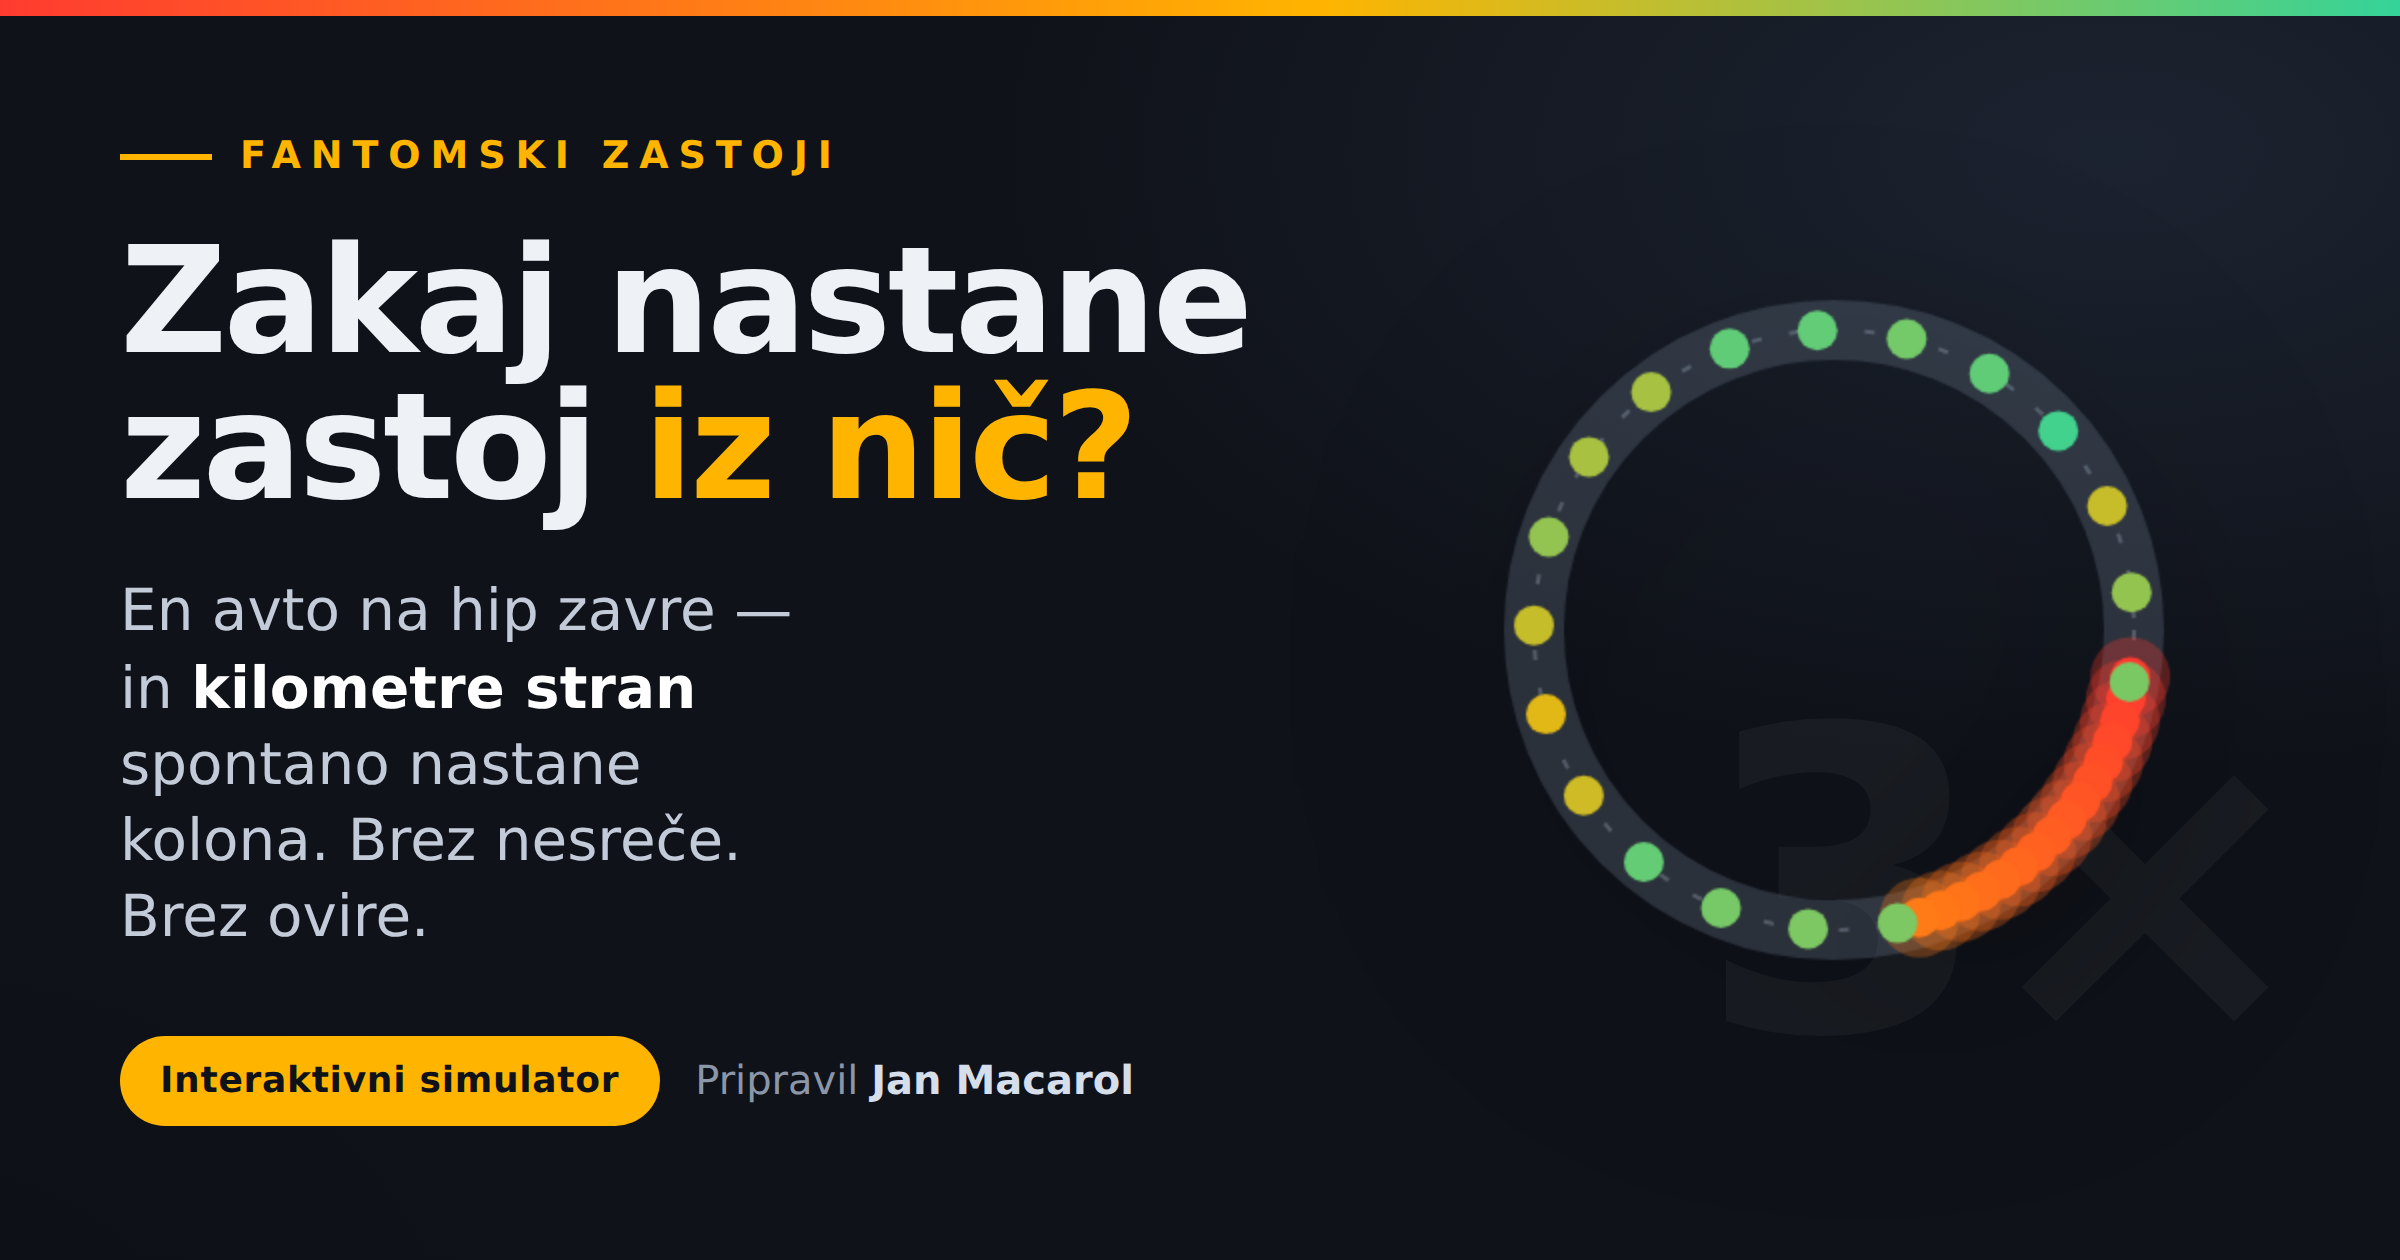
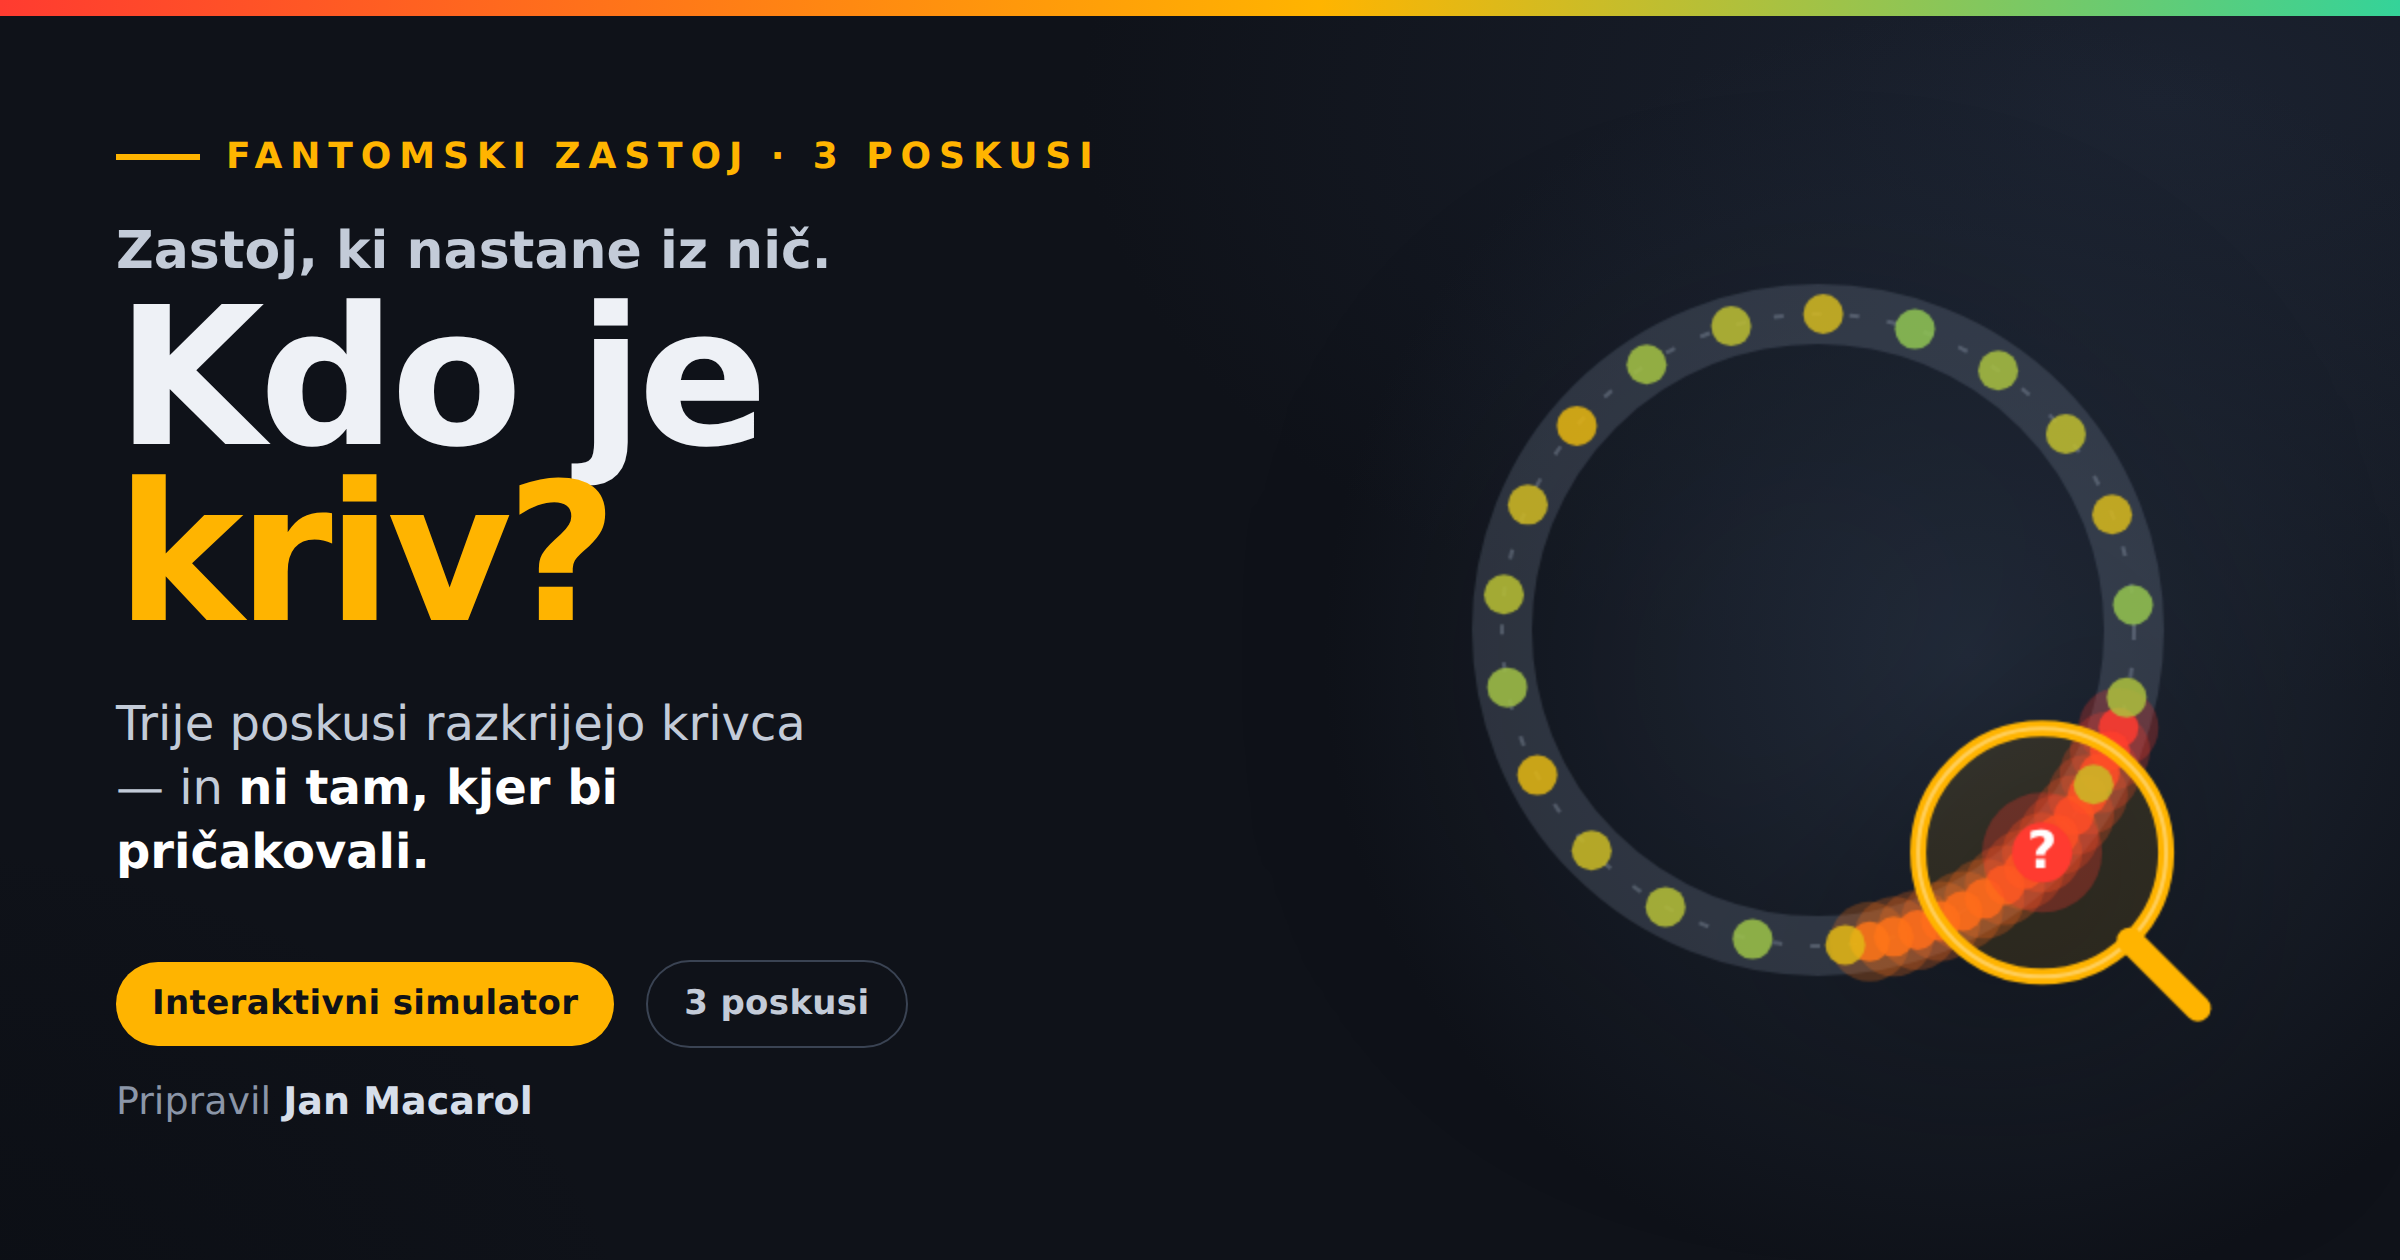
New clickbait share image and a who-is-to-blame verdict
- New og-image.png in a whodunit style: "Kdo je kriv?" with a magnifying
  glass over one car in the jam, 3-experiments framing, Jan Macarol credit
- OG/Twitter meta and share text reworked around "Who is to blame for the
  phantom jam?"
- New closing Verdict section that pays off the question by tying the three
  experiments together: braking driver = trigger, density = accomplice,
  speed = aggravating factor; the real culprit is human reaction time in
  dense traffic (collective dynamics)

Claude-Session: https://claude.ai/code/session_01Sw4fxwnE9M1xi2f1NeyN6S

diff --git a/index.html b/index.html
@@ -3,26 +3,26 @@
 <head>
 <meta charset="utf-8">
 <meta name="viewport" content="width=device-width, initial-scale=1">
-<title>Zakaj nastane zastoj iz nič? &middot; Simulator fantomskih zastojev</title>
+<title>Kdo je kriv za fantomski zastoj? &middot; Simulator (3 poskusi)</title>
 <meta name="author" content="Jan Macarol">
-<meta name="description" content="Interaktivni poskus: en avto na hip zavre — in kilometre stran spontano nastane zastoj. Brez nesreče, brez ovire. Preizkusi sam, kdaj promet razpade. Pripravil Jan Macarol.">
+<meta name="description" content="Zastoj, ki nastane iz nič — brez nesreče, brez ovire. Trije interaktivni poskusi razkrijejo, kdo je v resnici kriv za fantomski zastoj. Pripravil Jan Macarol.">
 
 <!-- Open Graph (Facebook, LinkedIn, WhatsApp, ...) -->
 <meta property="og:type" content="website">
 <meta property="og:site_name" content="Simulator fantomskih zastojev">
 <meta property="og:locale" content="sl_SI">
 <meta property="og:url" content="https://janmacarolvrabec.github.io/Traffic-Jam-Simulator/">
-<meta property="og:title" content="Zakaj nastane prometni zastoj iz nič? 🚗">
-<meta property="og:description" content="En sam avto na hip zavre — in kilometre stran spontano nastane zastoj. Brez nesreče, brez ovire. Interaktivni simulator fantomskih zastojev. Preizkusi sam. Pripravil Jan Macarol.">
+<meta property="og:title" content="Kdo je kriv za fantomski zastoj? 🕵️">
+<meta property="og:description" content="Zastoj, ki nastane iz nič — brez nesreče, brez ovire. Trije interaktivni poskusi razkrijejo krivca, in ni tam, kjer bi pričakovali. Preizkusi sam. Pripravil Jan Macarol.">
 <meta property="og:image" content="https://janmacarolvrabec.github.io/Traffic-Jam-Simulator/og-image.png">
 <meta property="og:image:width" content="1200">
 <meta property="og:image:height" content="630">
-<meta property="og:image:alt" content="Krožna proga z avtomobili in val zastoja, ki potuje nazaj po cesti.">
+<meta property="og:image:alt" content="Krožna proga z avtomobili in povečevalno steklo nad enim vozilom — kdo je kriv za zastoj?">
 
 <!-- Twitter / X -->
 <meta name="twitter:card" content="summary_large_image">
-<meta name="twitter:title" content="Zakaj nastane prometni zastoj iz nič? 🚗">
-<meta name="twitter:description" content="En sam avto na hip zavre — in kilometre stran nastane kolona. Interaktivni simulator fantomskih zastojev. Preizkusi sam.">
+<meta name="twitter:title" content="Kdo je kriv za fantomski zastoj? 🕵️">
+<meta name="twitter:description" content="Zastoj, ki nastane iz nič — brez nesreče, brez ovire. Trije poskusi razkrijejo krivca. Preizkusi sam.">
 <meta name="twitter:image" content="https://janmacarolvrabec.github.io/Traffic-Jam-Simulator/og-image.png">
 <meta name="theme-color" content="#ffb400">
 <style>
@@ -358,6 +358,22 @@
     transition: border-color .16s, color .16s, transform .12s; }
   .soc:hover { border-color: var(--accent); color: var(--ink); transform: translateY(-1px); }
   .soc svg { width: 18px; height: 18px; fill: currentColor; }
+
+  /* ---- Verdict: who is to blame ---- */
+  .suspects { display: grid; grid-template-columns: repeat(3, 1fr); gap: 14px; padding: 14px 18px 6px; }
+  @media (max-width: 760px) { .suspects { grid-template-columns: 1fr; } }
+  .suspect { background: var(--panel-2); border: 1px solid var(--edge-soft); border-radius: 12px; padding: 15px 16px; }
+  .susp-tag { font-size: 10.5px; letter-spacing: .16em; text-transform: uppercase; font-weight: 800; color: var(--ink-3); }
+  .susp-name { font-size: 16px; font-weight: 800; margin: 6px 0 9px; letter-spacing: -.01em; }
+  .susp-verdict { display: inline-block; font-size: 11.5px; font-weight: 800; padding: 4px 11px; border-radius: 999px; margin-bottom: 10px; }
+  .susp-verdict.cleared { color: var(--flow); background: color-mix(in srgb, var(--flow) 16%, transparent); border: 1px solid var(--flow); }
+  .susp-verdict.accomplice { color: var(--accent); background: color-mix(in srgb, var(--accent) 15%, transparent); border: 1px solid var(--accent); }
+  .susp-verdict.aggravating { color: var(--jam); background: color-mix(in srgb, var(--jam) 14%, transparent); border: 1px solid var(--jam); }
+  .suspect p { font-size: 13px; color: var(--ink-2); line-height: 1.46; }
+  .final-verdict { margin: 12px 18px 20px; padding: 17px 19px; }
+  .final-verdict .fv-q { font-size: 12px; letter-spacing: .14em; text-transform: uppercase; color: var(--accent); font-weight: 800; margin-bottom: 7px; }
+  .final-verdict .fv-a { font-size: 15px; line-height: 1.55; color: var(--ink); }
+  .final-verdict .fv-a b { color: var(--accent); font-weight: 700; }
 
   /* ---- Methodology disclaimer ---- */
   .disclaimer { font-size: 12.5px; line-height: 1.55; color: var(--ink-2);
@@ -698,6 +714,40 @@
       <div class="study"><b>Nagel &amp; Schreckenberg (1992)</b> &mdash; <i>računski model vseh treh poskusov.</i> Celularni avtomat s štirimi pravili na korak: (1) pospešek, (2) varnostno zaviranje na razmik, (3) naključno zaviranje z verjetnostjo <i>p</i>, (4) premik. Celica 7,5 m, korak 1 s. <a href="https://hal.science/jpa-00246697/document" target="_blank" rel="noopener">J. Phys. I France 2, 2221</a></div>
       <div class="study"><b>Nilsson (2004) &middot; Elvik (2009) &mdash; potenčni model</b> &mdash; <i>osnova sklopitve hitrost&ndash;dogodek in varnostne table.</i> Pogostost nesreč raste s potenco hitrosti: poškodbe &prop; v&sup2; (eksponent 2), hude &prop; v&sup3;, smrtne &prop; v&#8308;. Empirično iz švedskih sprememb omejitev, velja za avtoceste. Uporabljena razmerja: (130/110)&sup2; = <b>1,40</b>, (130/110)&#8308; = <b>1,95</b>. <a href="https://www.sciencedirect.com/science/article/abs/pii/S000145751000148X" target="_blank" rel="noopener">Elvik, Accid. Anal. Prev. (2010)</a></div>
       <div class="study"><b>Flynn, Kasimov, Nave, Rosales &amp; Seibold (MIT)</b> &mdash; teoretična potrditev: &raquo;jamitoni&laquo; so potujoči valovi zastoja, ki nastanejo tudi ko vsi vozniki upoštevajo povsem enaka pravila. <a href="https://math.mit.edu/traffic/" target="_blank" rel="noopener">math.mit.edu/traffic</a></div>
+    </div>
+  </div>
+
+  <!-- VERDICT: who is to blame -->
+  <div class="section-label" style="margin-top:34px">
+    <span class="sl-num">Razsodba</span>
+    <h2>Kdo je torej kriv?</h2>
+    <span class="sl-sub">trije osumljenci, trije poskusi</span>
+  </div>
+
+  <div class="card">
+    <div class="suspects">
+      <div class="suspect">
+        <div class="susp-tag">Osumljenec 1 &middot; Poskus 2</div>
+        <div class="susp-name">Voznik, ki je zaviral</div>
+        <div class="susp-verdict cleared">Sprožilec, ne krivec</div>
+        <p>En sam voznik res sproži kolono. A pri gostem prometu bi jo prej ali slej sprožil kdorkoli &mdash; zaviranje je le iskra, ne pravi vzrok.</p>
+      </div>
+      <div class="suspect">
+        <div class="susp-tag">Osumljenec 2 &middot; Poskus 1</div>
+        <div class="susp-name">Gostota prometa</div>
+        <div class="susp-verdict accomplice">Sokrivec</div>
+        <p>Nad kritično gostoto postane prosti tok nestabilen. Šele gneča omogoči, da se drobna motnja ojači v val. Brez nje zastoja ni.</p>
+      </div>
+      <div class="suspect">
+        <div class="susp-tag">Osumljenec 3 &middot; Poskus 3</div>
+        <div class="susp-name">Previsoka hitrost</div>
+        <div class="susp-verdict aggravating">Oteževalna okoliščina</div>
+        <p>Hitrost sama zastoja ne povzroči (pretok 110 &asymp; 130), a po Nilssonu močno poveča tveganje in ostrino dogodkov &mdash; +40 % nesreč.</p>
+      </div>
+    </div>
+    <div class="verdict final-verdict">
+      <div class="fv-q">Razsodba</div>
+      <div class="fv-a">Pravi krivec ni posamezen voznik, ampak <b>človeški reakcijski čas v gostem prometu</b>. Fantomski zastoj nastane iz <b>kolektivne dinamike</b>: vsak od nas z majhnim zamikom in kančkom prevelikega zaviranja doda svoj kamenček. <b>Nihče posamič &mdash; vsi skupaj.</b> Zato ne pomaga iskanje krivca, ampak umirjena, nižja hitrost in večji razmik.</div>
     </div>
   </div>
 
@@ -1116,7 +1166,7 @@
   const DEFAULT_URL = "https://janmacarolvrabec.github.io/Traffic-Jam-Simulator/";
   // when served over http(s) share the live URL; for local file:// fall back to the published one
   const SHARE_URL = /^https?:$/.test(location.protocol) ? location.href.split(/[?#]/)[0] : DEFAULT_URL;
-  const SHARE_TEXT = "Zakaj nastane prometni zastoj iz nič? 🚗 En avto na hip zavre — in kilometre stran nastane kolona. Interaktivni simulator fantomskih zastojev (pripravil Jan Macarol):";
+  const SHARE_TEXT = "Kdo je kriv za fantomski zastoj? 🕵️ Zastoj, ki nastane iz nič — brez nesreče, brez ovire. Trije poskusi razkrijejo krivca (pripravil Jan Macarol):";
   const enc = encodeURIComponent;
   // show the actual project link (live URL when hosted, else the published one)
   $("projectUrl").href = SHARE_URL;

diff --git a/README.md b/README.md
@@ -62,6 +62,16 @@ Vozila krožijo po zaprti zanki (obroč 3,0 km), enako kot v znamenitem Sugiyamo
 - **Temeljni diagram (pretok–gostota)** — krivulja za trenutne parametre z označeno *kritično gostoto* (vrhom zmogljivosti) in točko trenutnega stanja v živo. Pokaže, da čez kritično gostoto pretok pade, čeprav vozil dodajamo.
 - **Meritve v živo** — povprečna hitrost, pretok (vozil/h), število zastojev, delež ustavljenih vozil.
 
+## Razsodba: kdo je kriv za fantomski zastoj?
+
+Simulator se sklene z razsodbo, ki poveže vse tri poskuse:
+
+- **Voznik, ki je zaviral** (Poskus 2) — *sprožilec, ne krivec*: iskra, ne vzrok.
+- **Gostota prometa** (Poskus 1) — *sokrivec*: šele nad kritično gostoto postane tok nestabilen.
+- **Previsoka hitrost** (Poskus 3) — *oteževalna okoliščina*: zastoja ne povzroči, a močno poveča tveganje.
+
+**Pravi krivec** ni posamezen voznik, ampak **človeški reakcijski čas v gostem prometu** — fantomski zastoj nastane iz kolektivne dinamike. Nihče posamič, vsi skupaj. Zato pomagata umirjena, nižja hitrost in večji razmik.
+
 ## Deljenje na družbenih omrežjih
 
 Datoteka vsebuje oznake **Open Graph** in **Twitter Card** ter gumbe za deljenje na Facebook, X, LinkedIn in WhatsApp. Priložena je predogledna slika `og-image.png` (1200×630).